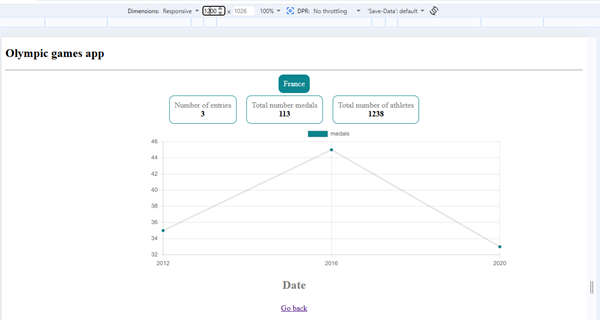
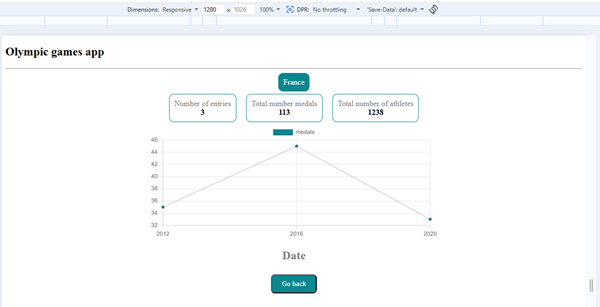
Custom Back Button

diff --git a/src/app/pages/country/country.component.scss b/src/app/pages/country/country.component.scss
@@ -17,3 +17,23 @@
         width: 100%;
     }
 }
+
+.btn-back {
+  display: inline-block;
+  padding: 10px 20px;
+  background-color: #0b868f;
+  color: white;
+  text-decoration: none;
+  border-radius: 8px;
+  font-weight: 500;
+  transition: background-color 0.2s ease, transform 0.1s ease;
+}
+
+.btn-back:hover {
+  background-color: #08656c;
+  transform: translateY(-1px);
+}
+
+.btn-back:active {
+  transform: translateY(0);
+}

diff --git a/src/app/pages/not-found/not-found.component.scss b/src/app/pages/not-found/not-found.component.scss
@@ -6,3 +6,23 @@
   align-items: center;
   flex-direction: column;
 }
+
+.btn-back {
+  display: inline-block;
+  padding: 10px 20px;
+  background-color: #0b868f;
+  color: white;
+  text-decoration: none;
+  border-radius: 8px;
+  font-weight: 500;
+  transition: background-color 0.2s ease, transform 0.1s ease;
+}
+
+.btn-back:hover {
+  background-color: #08656c;
+  transform: translateY(-1px);
+}
+
+.btn-back:active {
+  transform: translateY(0);
+}

diff --git a/src/app/pages/country/country.component.html b/src/app/pages/country/country.component.html
@@ -14,6 +14,10 @@
     </div>
   </div>
   <div class="center">
-    <a routerLink="">Go back</a>
+    
+  <button class="btn-back" routerLink="/">
+    Go back
+  </button>
+   
   </div>
 </div>

diff --git a/src/app/pages/not-found/not-found.component.html b/src/app/pages/not-found/not-found.component.html
@@ -2,5 +2,7 @@
 <div class="center">
   <h2>No corresponding page found</h2>
   <p *ngIf="error" class="error">{{ error }}</p>
-  <a routerLink="">Go back</a>
+  <button class="btn-back" routerLink="/">
+    Go back
+  </button>
 </div>